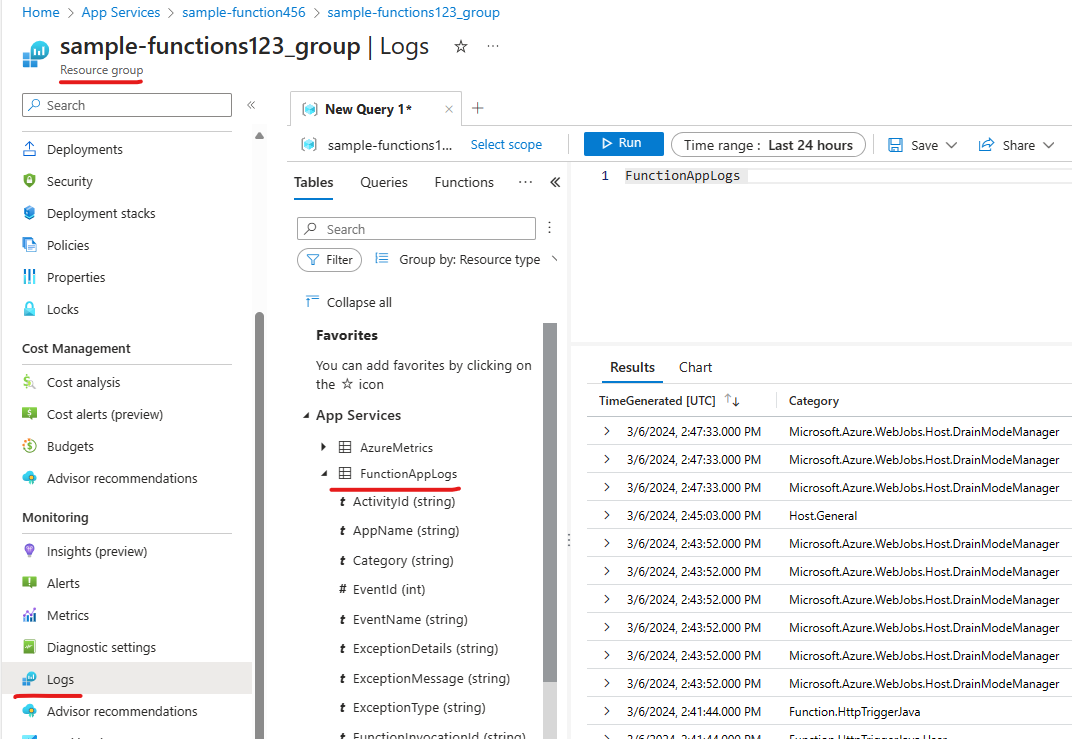
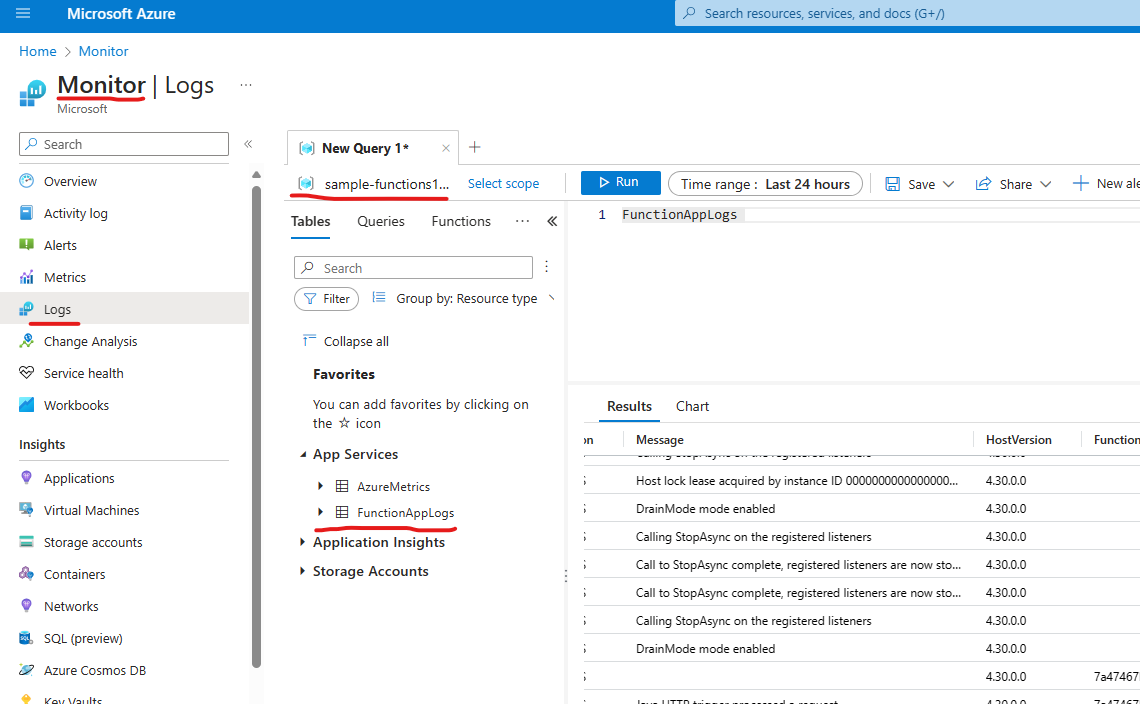
Updates log explaination

diff --git a/README.md b/README.md
@@ -38,5 +38,5 @@ However, if it needs to be called from other service, 'code' must be provided to
 ![img/azure_function_running_on_broswer.png](img/azure_function_running_on_broswer.png)
 
 #### See the log on Azure Portal
-You can see the log in the Resource Group - Logs tab. It seems like it has 4-5 min delay to show the log...
+You can see the log in the Monitor - Logs tab and select cope as your resource group. It seems like it has 4-5 min delay to show the log...
 ![img/azure_functions_log.png](img/azure_functions_log.png)
